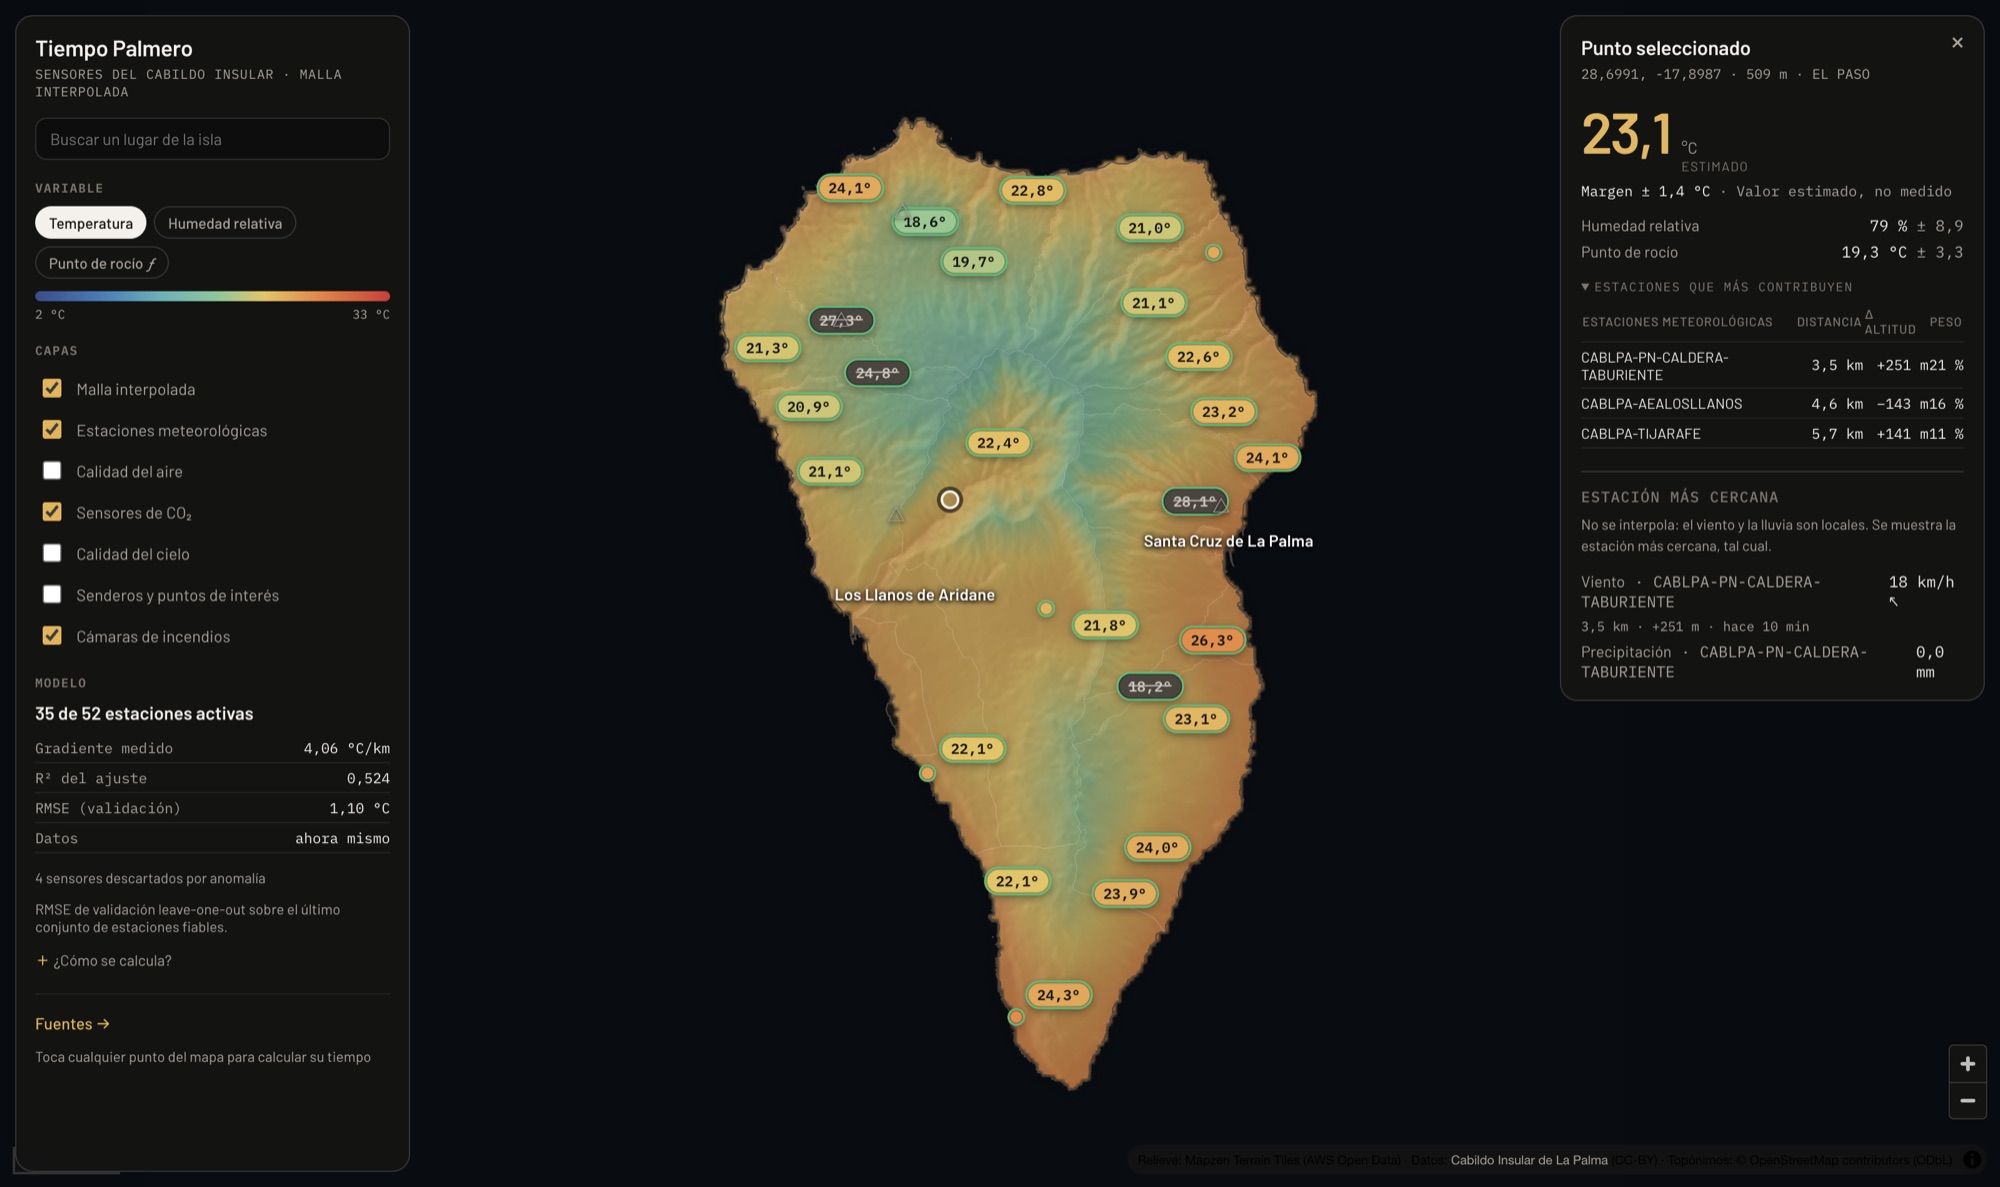
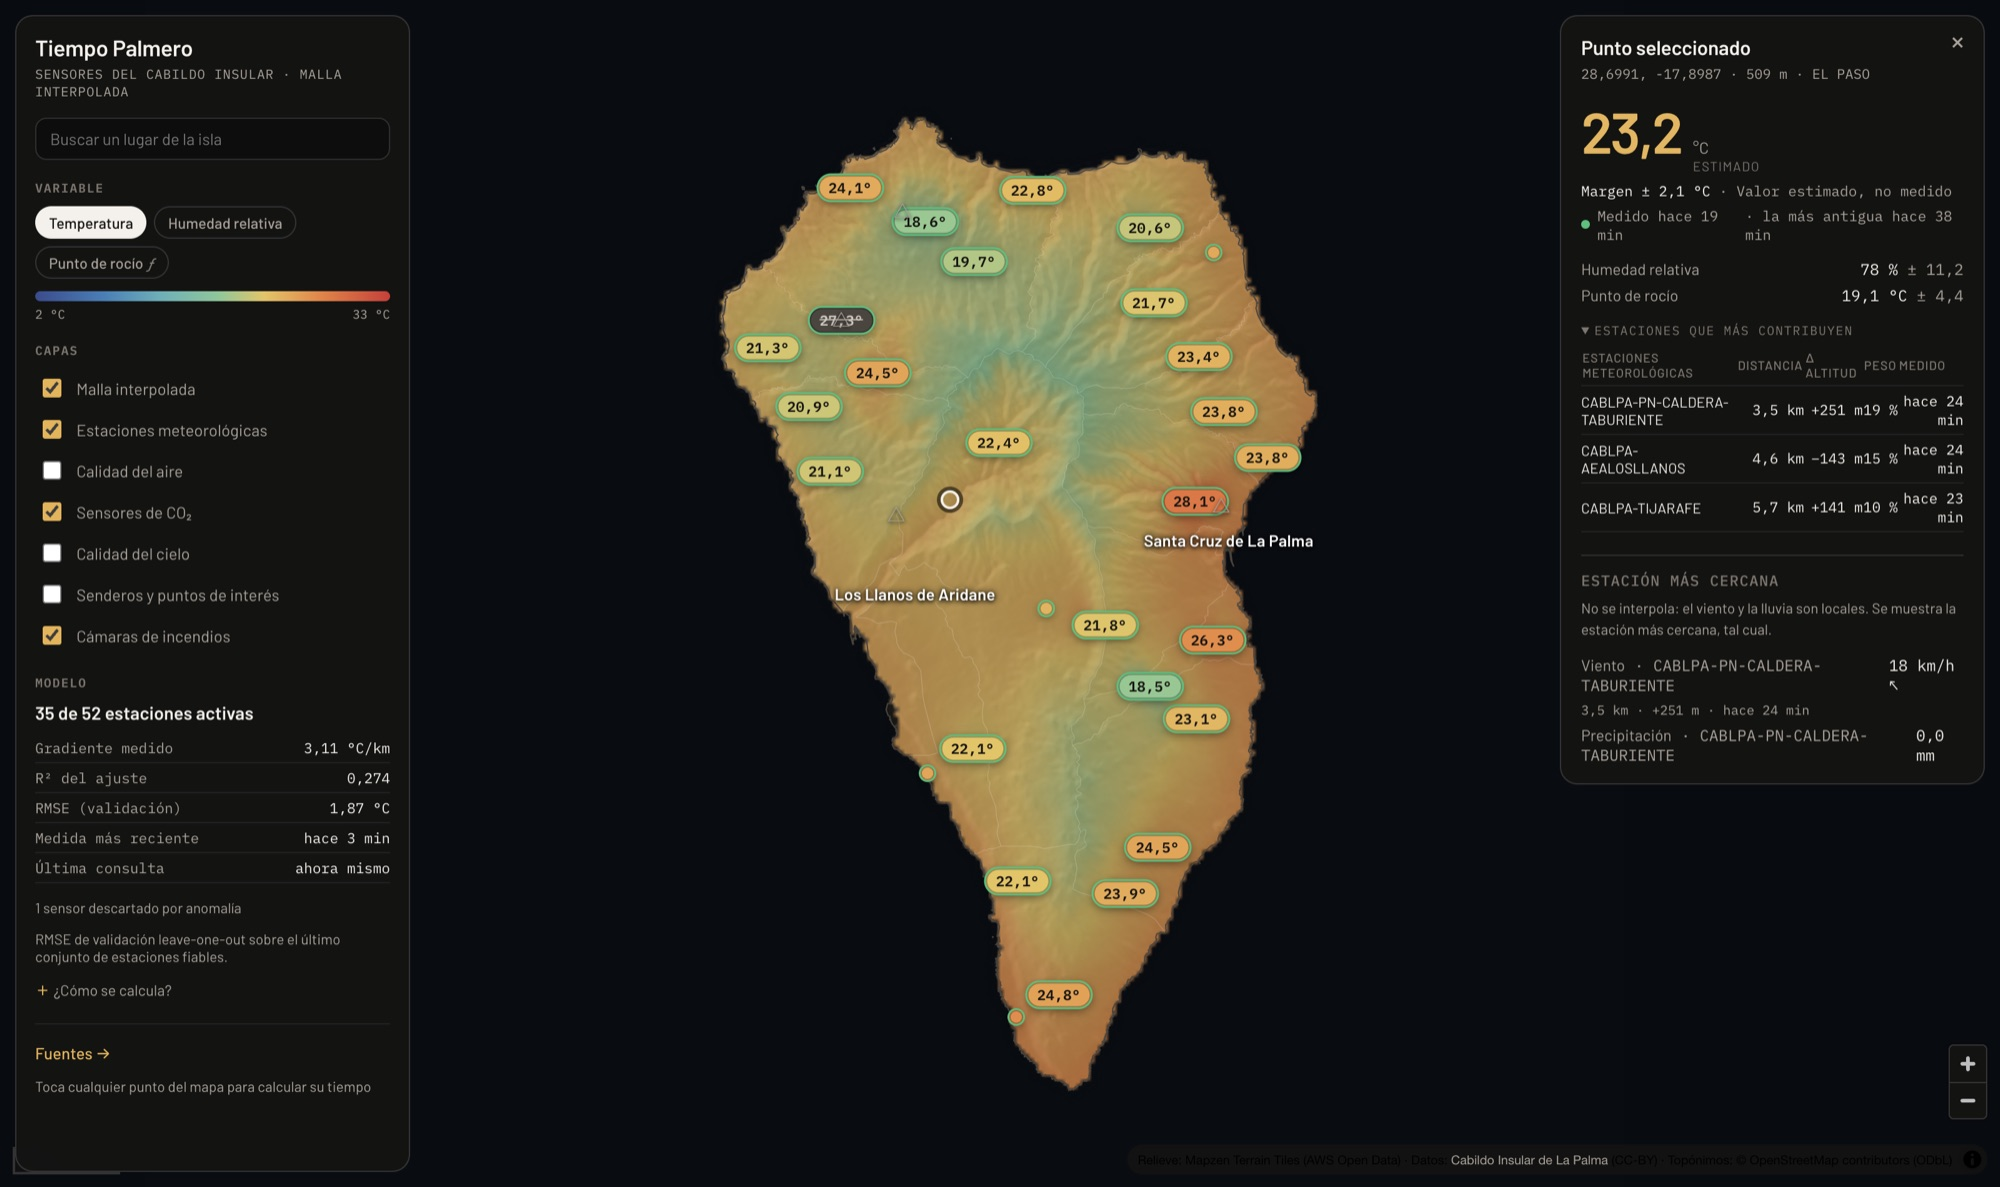
Enseña cuándo se MIDIÓ el dato, no cuándo se descargó
Faltaba lo más básico para decidir si una cifra sigue valiendo. La barra
lateral decía «Datos: hace 2 min», pero eso era la antigüedad de la CONSULTA:
se puede haber preguntado hace diez segundos a una red cuya lectura más
reciente es de hace hora y media, y el número que salía parecía recién hecho.

Ahora `Estimate` lleva `observedAt` y `oldestObservedAt`. El primero se pondera
con el mismo peso que el propio valor: si el 80 % de la cifra sale de una
estación, la frescura anunciada es la de esa estación y no el promedio simple
de toda la red, que la maquillaría. El segundo enseña el peor caso sin
esconderlo.

En el panel del punto aparecen los dos, con un punto de color, y la tabla de
contribuyentes gana una columna con la antigüedad de cada lectura. Pasada una
hora sale un aviso. La barra lateral separa «medida más reciente» de «última
consulta», que antes se confundían en una sola fila.

Un valor derivado nunca se anuncia más fresco que sus ingredientes: el punto
de rocío hereda el mínimo de la temperatura y la humedad que lo producen.

Cuatro pruebas nuevas. 39 en verde.

diff --git a/src/lib/interpolate.test.ts b/src/lib/interpolate.test.ts
@@ -131,6 +131,7 @@ describe('ajuste OLS del gradiente altitudinal', () => {
       lat: 28.6 + i * 0.001,
       elevation: i * 100,
       value: 25 - 0.006 * (i * 100),
+      observedAt: NOW,
     }))
     const fit = ols(synth)
     expect(fit.b).toBeCloseTo(-0.006, 8)
@@ -149,6 +150,7 @@ describe('rechazo de outliers', () => {
       lat: 28.76,
       elevation: 1560,
       value: 3.1, // pasa el filtro de plausibilidad, pero en agosto es imposible
+      observedAt: NOW,
     }
     const { rejected } = fitWithRejection([...clean, broken])
     expect(rejected.map((r) => r.entityId)).toContain('SENSOR-ROTO')
@@ -422,5 +424,58 @@ describe('coherencia higrotérmica', () => {
         expect(relativeHumidityFrom(t, dewpointFrom(t, rh))).toBeCloseTo(rh, 4)
       }
     }
+  })
+})
+
+describe('frescura del dato interpolado', () => {
+  const model = buildModel(stations, 'temperature')
+
+  it('la antigüedad anunciada es la de las MEDIDAS, no la de la descarga', () => {
+    const est = estimate(model, -17.9, 28.65, 800)!
+    // Cae dentro del rango real de instantes de las estaciones utilizables.
+    const times = model.used.map((s) => s.observedAt)
+    expect(est.observedAt).toBeGreaterThanOrEqual(Math.min(...times))
+    expect(est.observedAt).toBeLessThanOrEqual(Math.max(...times))
+
+    // `oldestObservedAt` es el mínimo de las estaciones que CONTRIBUYEN, no de
+    // toda la red: las que caen fuera del corte de 15 km no cuentan, ni para
+    // el valor ni para su frescura.
+    const contributing = model.used.filter(
+      (s) => haversineKm([-17.9, 28.65], [s.lon, s.lat]) <= 15,
+    )
+    expect(est.oldestObservedAt).toBe(
+      Math.min(...contributing.map((s) => s.observedAt)),
+    )
+  })
+
+  it('está ponderada por el mismo peso que el valor', () => {
+    // Justo encima de una estación, la frescura anunciada tiene que ser
+    // prácticamente la suya: si el 90 % de la cifra sale de ese sensor,
+    // anunciar la media simple de toda la red sería engañoso.
+    const s = model.used[0]
+    const est = estimate(model, s.lon, s.lat, s.elevation)!
+    expect(Math.abs(est.observedAt - s.observedAt)).toBeLessThan(15 * 60_000)
+  })
+
+  it('el peor caso nunca es más fresco que el típico', () => {
+    for (const [lon, lat, z] of [
+      [-17.9, 28.65, 800],
+      [-17.78, 28.62, 200],
+      [-17.86, 28.75, 2000],
+    ] as const) {
+      const est = estimate(model, lon, lat, z)!
+      expect(est.oldestObservedAt).toBeLessThanOrEqual(est.observedAt)
+    }
+  })
+
+  it('un valor derivado no es más fresco que sus ingredientes', () => {
+    const models = {
+      temperature: buildModel(stations, 'temperature'),
+      relativehumidity: buildModel(stations, 'relativehumidity'),
+    }
+    const b = estimateBundle(models, -17.9, 28.65, 800)
+    if (!b.dewpoint || !b.temperature || !b.relativehumidity) return
+    expect(b.dewpoint.observedAt).toBeLessThanOrEqual(b.temperature.observedAt)
+    expect(b.dewpoint.observedAt).toBeLessThanOrEqual(b.relativehumidity.observedAt)
   })
 })

diff --git a/src/lib/interpolate.ts b/src/lib/interpolate.ts
@@ -85,6 +85,8 @@ export interface Sample {
   lat: number
   elevation: number
   value: number
+  /** Instante de la MEDIDA (epoch ms, UTC), no de la descarga. */
+  observedAt: number
 }
 
 export interface RejectedSample extends Sample {
@@ -116,6 +118,8 @@ export interface Contributor {
   elevationDelta: number
   weightShare: number
   rawValue: number
+  /** Instante de esa medida concreta (epoch ms, UTC). */
+  observedAt: number
 }
 
 export interface Estimate {
@@ -127,6 +131,16 @@ export interface Estimate {
   extrapolated: boolean
   /** El punto cae fuera del rango de altitudes muestreado por la red. */
   elevationExtrapolated: boolean
+
+  /**
+   * Cuándo se MIDIÓ lo que sostiene esta cifra, ponderado por el mismo peso
+   * que el propio valor. No es cuándo se descargó: una estimación puede venir
+   * de una descarga de hace 10 segundos y de lecturas de hace hora y media, y
+   * lo segundo es lo que importa para saber si el número sigue valiendo.
+   */
+  observedAt: number
+  /** La más vieja de las lecturas que contribuyen. El peor caso, a la vista. */
+  oldestObservedAt: number
 }
 
 // ---------------------------------------------------------------------------
@@ -269,6 +283,7 @@ export function toSamples(
       lat: s.lat,
       elevation: s.elevation,
       value: v,
+      observedAt: s.timeinstant,
     })
   }
   return out
@@ -387,7 +402,18 @@ export function estimate(
       elevationDelta: it.s.elevation - elevation,
       weightShare: it.w / sw,
       rawValue: it.s.value,
+      observedAt: it.s.observedAt,
     }))
+
+  // Antigüedad del dato, ponderada por el MISMO peso que el valor: si el 80 %
+  // de la cifra viene de una estación, la frescura que se anuncia tiene que ser
+  // la de esa estación, no el promedio simple de todas las que participan.
+  let observedAt = 0
+  let oldestObservedAt = Infinity
+  for (const it of list) {
+    observedAt += (it.w / sw) * it.s.observedAt
+    if (it.s.observedAt < oldestObservedAt) oldestObservedAt = it.s.observedAt
+  }
 
   const nearestKm = Math.min(...list.map((it) => it.d))
   const [lo, hi] = model.elevationRange
@@ -397,6 +423,8 @@ export function estimate(
     contributors: top,
     extrapolated,
     elevationExtrapolated: elevation > hi || elevation < lo,
+    observedAt,
+    oldestObservedAt,
   }
 }
 
@@ -611,6 +639,12 @@ export function estimateBundle(
       extrapolated: temperature.extrapolated || relativehumidity.extrapolated,
       elevationExtrapolated:
         temperature.elevationExtrapolated || relativehumidity.elevationExtrapolated,
+      // Un valor derivado no es más fresco que el más viejo de sus ingredientes.
+      observedAt: Math.min(temperature.observedAt, relativehumidity.observedAt),
+      oldestObservedAt: Math.min(
+        temperature.oldestObservedAt,
+        relativehumidity.oldestObservedAt,
+      ),
     }
   }
 

diff --git a/src/components/PointPanel.tsx b/src/components/PointPanel.tsx
@@ -18,6 +18,7 @@ import {
 } from '../lib/interpolate'
 import type { Station } from '../lib/quality'
 import { cssColor, type RgbStop } from '../lib/palette'
+import { freshness } from '../lib/quality'
 import { n, n0, t, humanAge } from '../i18n'
 
 export interface ProbePoint {
@@ -138,6 +139,25 @@ export function PointPanel({
             <span className="dim"> · {t.point.notAMeasurement}</span>
           </p>
 
+          {/* Cuándo se MIDIÓ lo que sostiene la cifra. Es distinto de cuándo se
+              descargó: los datos pueden ser de hace 10 segundos y las lecturas
+              de hace hora y media, y es lo segundo lo que dice si el número
+              sigue valiendo. */}
+          <p className="freshness mono" title={t.point.measuredAtHint}>
+            <span className={`dot dot-${freshness((now - main.observedAt) / 3_600_000)}`} />
+            {t.point.measuredAt} {humanAge(now - main.observedAt)}
+            {main.oldestObservedAt < main.observedAt - 60_000 && (
+              <span className="dim">
+                {' '}
+                · {t.point.oldestContribution} {humanAge(now - main.oldestObservedAt)}
+              </span>
+            )}
+          </p>
+
+          {now - main.observedAt > 3_600_000 && (
+            <p className="warn">{t.point.staleWarning}</p>
+          )}
+
           {variable === 'dewpoint' && (
             <p className="note small">{t.variables.derivedHint}</p>
           )}
@@ -170,6 +190,7 @@ export function PointPanel({
                   <th>{t.point.distance}</th>
                   <th>{t.point.elevationDelta}</th>
                   <th>{t.point.weight}</th>
+                  <th>{t.point.measuredAt}</th>
                 </tr>
               </thead>
               <tbody>
@@ -182,6 +203,7 @@ export function PointPanel({
                       {n0(Math.abs(c.elevationDelta))} {t.units.metres}
                     </td>
                     <td className="mono">{Math.round(c.weightShare * 100)} %</td>
+                    <td className="mono">{humanAge(now - c.observedAt)}</td>
                   </tr>
                 ))}
               </tbody>

diff --git a/src/components/Sidebar.tsx b/src/components/Sidebar.tsx
@@ -70,6 +70,12 @@ export function Sidebar(props: Props) {
 
   const lapsePerKm = model ? -model.b * 1000 : null
 
+  // Dos relojes distintos, y la diferencia importa: se puede haber consultado
+  // hace 10 segundos una red cuya lectura más reciente es de hace hora y media.
+  const newestObservation = model?.used.length
+    ? Math.max(...model.used.map((u) => u.observedAt))
+    : null
+
   return (
     <aside className={`sidebar${open ? ' open' : ''}`}>
       <button
@@ -197,9 +203,15 @@ export function Sidebar(props: Props) {
                   </td>
                 </tr>
               )}
+              {newestObservation && (
+                <tr>
+                  <td>{t.model.dataAge}</td>
+                  <td>{humanAge(props.now - newestObservation)}</td>
+                </tr>
+              )}
               {props.lastUpdate && (
                 <tr>
-                  <td>Datos</td>
+                  <td>{t.model.fetchAge}</td>
                   <td>{humanAge(props.now - props.lastUpdate)}</td>
                 </tr>
               )}

diff --git a/src/i18n/es.ts b/src/i18n/es.ts
@@ -63,6 +63,12 @@ export const es = {
     measured: 'medido',
     notAMeasurement: 'Valor estimado, no medido',
     uncertainty: 'Margen',
+    measuredAt: 'Medido',
+    measuredAtHint:
+      'Antigüedad de las lecturas que sostienen esta cifra, ponderada igual que el valor. No es cuándo se descargaron los datos.',
+    oldestContribution: 'la más antigua',
+    staleWarning:
+      'Las lecturas que sostienen esta cifra tienen más de una hora. El tiempo puede haber cambiado.',
     contributors: 'Estaciones que más contribuyen',
     distance: 'Distancia',
     elevationDelta: 'Δ altitud',
@@ -95,6 +101,8 @@ export const es = {
   model: {
     title: 'Modelo',
     stationsUsed: (used: number, total: number) => `${used} de ${total} estaciones activas`,
+    dataAge: 'Medida más reciente',
+    fetchAge: 'Última consulta',
     lapseRate: 'Gradiente medido',
     lapseRateUnit: '°C/km',
     r2: 'R² del ajuste',

diff --git a/src/styles.css b/src/styles.css
@@ -531,3 +531,25 @@ table.kv td:first-child { color: var(--fg-dim); }
   border-radius: 50%;
   overflow: hidden;
 }
+
+/* Frescura del dato: cuándo se midió, no cuándo se descargó. */
+.freshness {
+  display: flex;
+  align-items: center;
+  gap: 6px;
+  font-size: 11.5px;
+  margin: 5px 0 0;
+  color: var(--fg-dim);
+}
+.freshness .dot {
+  width: 7px;
+  height: 7px;
+  border-radius: 50%;
+  flex: none;
+}
+.freshness .dot-live { background: var(--live); }
+.freshness .dot-recent { background: var(--amber); }
+.freshness .dot-dead { background: var(--fg-faint); }
+
+/* Marca de variable calculada, no interpolada. */
+.derived-mark { font-style: italic; opacity: 0.75; }

diff --git a/README.md b/README.md
@@ -19,6 +19,13 @@ cálculo con su distancia y su desnivel. La estación que más pesa está 251 m 
 arriba y a 3,5 km; la segunda, 143 m más abajo. Sin corregir por altitud, esas
 dos se promediarían como si estuvieran en el mismo sitio.
 
+Debajo del margen, **cuándo se midió** lo que sostiene la cifra: «medido hace
+19 min, la más antigua hace 38 min». Es un reloj distinto del de la descarga —
+los datos pueden haberse pedido hace diez segundos y las lecturas ser de hace
+hora y media, y es lo segundo lo que dice si el número sigue valiendo. La
+antigüedad se pondera con el mismo peso que el valor: si el 80 % de la cifra
+sale de una estación, la frescura que se anuncia es la de esa estación.
+
 Abajo a la izquierda, el estado del modelo: **35 de 52 estaciones activas** —el
 denominador real, no el del catálogo—, el gradiente medido en ese instante
 (4,06 °C/km, no los 6,5 del manual), el R² del ajuste y el RMSE de validación.
